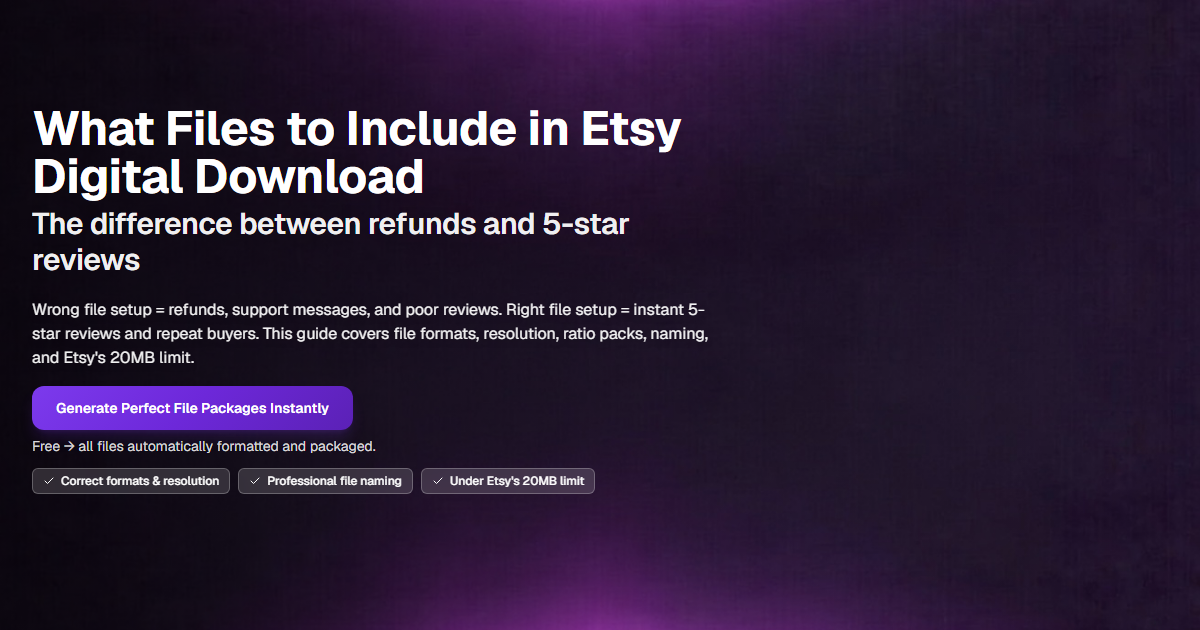
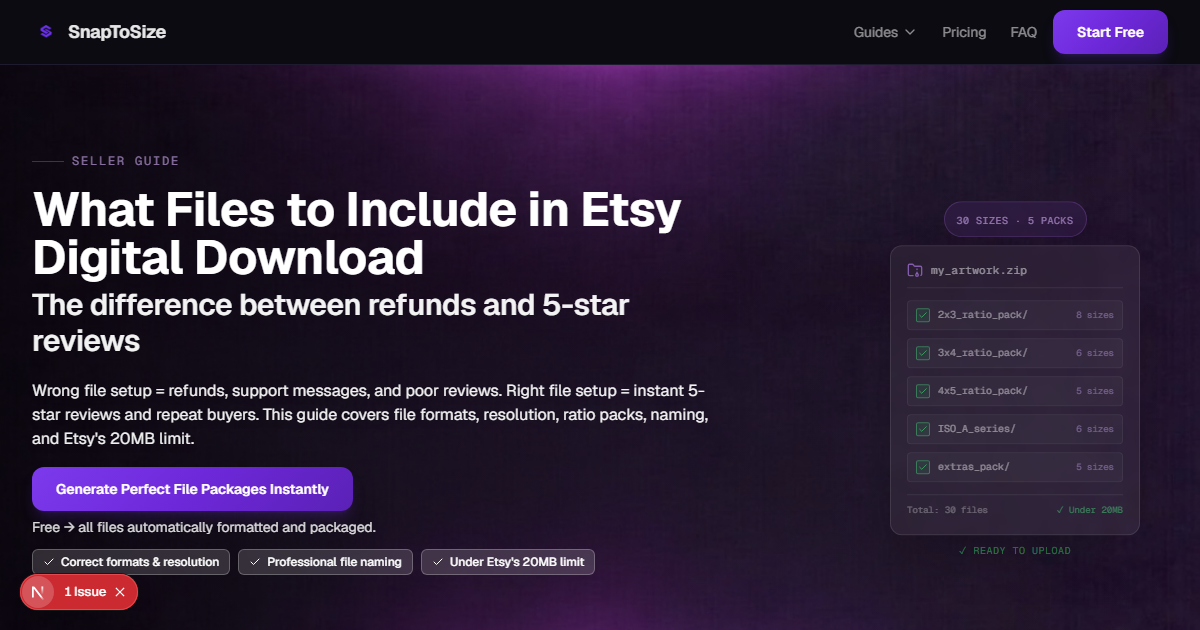
Upgrade heroes for sell-digital-downloads and what-files-to-include pages
- Add CSS-only workflow visual (Upload → Process → 5 ZIPs) to sell page
- Add CSS-only file checklist visual with correct pack sizes to files page
- Add "Seller Guide" label to both heroes
- Fix file counts to match product (8/6/5/6/5 = 30 sizes)
- Generate new OG images for both pages

diff --git a/app-next/app/(marketing)/how-to-sell-digital-downloads-on-etsy/page.tsx b/app-next/app/(marketing)/how-to-sell-digital-downloads-on-etsy/page.tsx
@@ -214,10 +214,71 @@ export default function HowToSellDigitalDownloadsOnEtsyPage() {
           <div className="absolute inset-0 bg-gradient-to-r from-black/65 via-black/25 to-transparent" />
         </div>
 
+        {/* CSS-only workflow visual — right side */}
+        <div className="absolute right-[5%] top-1/2 -translate-y-1/2 hidden lg:block z-10">
+          <div className="relative" style={{ width: "220px" }}>
+            <div className="space-y-3">
+              {/* Step 1: Upload */}
+              <div className="rounded-lg border border-white/10 bg-white/[0.06] backdrop-blur-sm p-3 shadow-xl">
+                <div className="flex items-center gap-3">
+                  <div className="w-8 h-8 rounded-full bg-purple-500/15 border border-purple-400/25 flex items-center justify-center flex-shrink-0">
+                    <Upload className="w-3.5 h-3.5 text-purple-400/70" />
+                  </div>
+                  <div>
+                    <span className="text-[11px] font-semibold text-white/60 block">Upload 1 image</span>
+                    <span className="text-[9px] font-mono text-white/30">artwork.jpg · 8400×11200</span>
+                  </div>
+                </div>
+              </div>
+              {/* Arrow */}
+              <div className="flex justify-center">
+                <div className="w-px h-4 bg-gradient-to-b from-purple-400/30 to-purple-400/10" />
+              </div>
+              {/* Step 2: Process */}
+              <div className="rounded-lg border border-purple-400/15 bg-purple-500/[0.06] backdrop-blur-sm p-3 shadow-xl">
+                <div className="flex items-center gap-3">
+                  <div className="w-8 h-8 rounded-full bg-purple-500/20 border border-purple-400/30 flex items-center justify-center flex-shrink-0">
+                    <span className="text-[10px] font-bold text-purple-300/70">⚡</span>
+                  </div>
+                  <div>
+                    <span className="text-[11px] font-semibold text-white/60 block">SnapToSize processes</span>
+                    <span className="text-[9px] font-mono text-white/30">30 sizes · 300 DPI · 10 sec</span>
+                  </div>
+                </div>
+              </div>
+              {/* Arrow */}
+              <div className="flex justify-center">
+                <div className="w-px h-4 bg-gradient-to-b from-purple-400/30 to-purple-400/10" />
+              </div>
+              {/* Step 3: Output */}
+              <div className="rounded-lg border border-white/10 bg-white/[0.06] backdrop-blur-sm p-3 shadow-xl">
+                <div className="flex items-center gap-3 mb-2">
+                  <div className="w-8 h-8 rounded-full bg-green-500/15 border border-green-400/25 flex items-center justify-center flex-shrink-0">
+                    <Check className="w-3.5 h-3.5 text-green-400/70" />
+                  </div>
+                  <div>
+                    <span className="text-[11px] font-semibold text-white/60 block">5 ZIP packs ready</span>
+                    <span className="text-[9px] font-mono text-white/30">Upload directly to Etsy</span>
+                  </div>
+                </div>
+                <div className="space-y-1 pl-11">
+                  {["2:3 ratio · 8 sizes", "3:4 ratio · 6 sizes", "4:5 ratio · 5 sizes", "ISO A · 6 sizes", "Extras · 5 sizes"].map((pack, i) => (
+                    <div key={i} className="text-[8px] font-mono text-white/25">{pack}</div>
+                  ))}
+                </div>
+              </div>
+            </div>
+          </div>
+        </div>
+
         {/* Content - centered vertically */}
         <div className="relative z-10 h-full flex items-center">
           <Container>
             <div className="max-w-[680px] py-4 -mt-12 md:-mt-8">
+              <div className="flex items-center gap-2 mb-4">
+                <div className="h-px w-8 bg-purple-500/40" />
+                <span className="text-xs font-mono tracking-[0.15em] text-purple-300/60 uppercase">Seller Guide</span>
+              </div>
               <h1 className="font-bold tracking-tight mb-5 text-white">
                 <span className="block text-3xl md:text-4xl lg:text-5xl mb-1.5">
                   How to Sell Digital Downloads on Etsy

diff --git a/app-next/app/(marketing)/what-files-to-include-etsy-digital-download/page.tsx b/app-next/app/(marketing)/what-files-to-include-etsy-digital-download/page.tsx
@@ -161,10 +161,59 @@ export default function WhatFilesToIncludeEtsyDigitalDownloadPage() {
           <div className="absolute inset-0 bg-gradient-to-r from-black/65 via-black/25 to-transparent" />
         </div>
 
+        {/* CSS-only file checklist visual — right side */}
+        <div className="absolute right-[5%] top-1/2 -translate-y-1/2 hidden lg:block z-10">
+          <div className="relative" style={{ width: "250px" }}>
+            {/* Badge on top */}
+            <div className="flex justify-center mb-2">
+              <div className="px-3 py-1 rounded-full border border-purple-400/20 bg-purple-500/10 backdrop-blur-sm">
+                <span className="text-[10px] font-mono text-purple-300/60 tracking-wider">30 SIZES · 5 PACKS</span>
+              </div>
+            </div>
+            <div className="rounded-xl border border-white/10 bg-white/[0.06] backdrop-blur-sm p-4 shadow-2xl">
+              <div className="flex items-center gap-2 mb-3 pb-2 border-b border-white/[0.08]">
+                <FolderArchive className="w-4 h-4 text-purple-400/60" />
+                <span className="text-[11px] font-mono text-white/50 tracking-wide">my_artwork.zip</span>
+              </div>
+              <div className="space-y-2">
+                {[
+                  { name: "2x3_ratio_pack/", files: "8 sizes", check: true },
+                  { name: "3x4_ratio_pack/", files: "6 sizes", check: true },
+                  { name: "4x5_ratio_pack/", files: "5 sizes", check: true },
+                  { name: "ISO_A_series/", files: "6 sizes", check: true },
+                  { name: "extras_pack/", files: "5 sizes", check: true },
+                ].map((item, i) => (
+                  <div key={i} className="flex items-center justify-between px-2 py-1.5 rounded bg-white/[0.03] border border-white/[0.06]">
+                    <div className="flex items-center gap-2">
+                      <div className={`w-3.5 h-3.5 rounded-sm border flex items-center justify-center ${item.check ? "border-green-400/40 bg-green-500/10" : "border-white/10"}`}>
+                        {item.check && <Check className="w-2.5 h-2.5 text-green-400/70" />}
+                      </div>
+                      <span className="text-[10px] font-mono text-white/45">{item.name}</span>
+                    </div>
+                    <span className="text-[9px] font-mono text-purple-300/40">{item.files}</span>
+                  </div>
+                ))}
+              </div>
+              <div className="mt-3 pt-2 border-t border-white/[0.08] flex items-center justify-between">
+                <span className="text-[9px] font-mono text-white/30">Total: 30 files</span>
+                <span className="text-[9px] font-mono text-green-400/50">✓ Under 20MB</span>
+              </div>
+            </div>
+            {/* Bottom status */}
+            <div className="flex justify-center mt-2">
+              <span className="text-[10px] font-mono text-green-400/50 tracking-wider">✓ READY TO UPLOAD</span>
+            </div>
+          </div>
+        </div>
+
         {/* Content - centered vertically */}
         <div className="relative z-10 h-full flex items-center">
           <Container>
             <div className="max-w-[680px] py-4 -mt-12 md:-mt-8">
+              <div className="flex items-center gap-2 mb-4">
+                <div className="h-px w-8 bg-purple-500/40" />
+                <span className="text-xs font-mono tracking-[0.15em] text-purple-300/60 uppercase">Seller Guide</span>
+              </div>
               <h1 className="font-bold tracking-tight mb-5 text-white">
                 <span className="block text-3xl md:text-4xl lg:text-5xl mb-1.5">
                   What Files to Include in Etsy Digital Download
